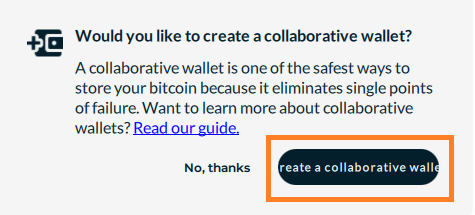
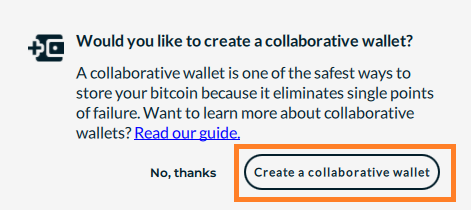
Adding fixes from PR comments

diff --git a/content/getting-started/multiDeviceMultiSig/_index.en.md b/content/getting-started/multiDeviceMultiSig/_index.en.md
@@ -9,7 +9,7 @@ keywords: ["mac, macos, windows, linux, ios, android"]
 ---
 
 {{< notice note >}}
-This tutorial is for someone that would like to their transactions to be signed from multiple devices. In this workflow, we will be using a desktop, laptop, and a mobile phone to create a 2 of 3 wallet. You can also use this workflow as a template to easily create a another version of a multisig wallet.
+This tutorial is for someone that would like their transactions to be signed from multiple devices. In this workflow, we will be using a desktop, laptop, and a mobile phone to create a 2 of 3 wallet. You can also use this workflow as a template to easily create a another version of a multisig wallet.
 {{< /notice >}}
 
 {{< notice info >}}
@@ -39,7 +39,7 @@ You will need to import or create a key for each of the devices you wish to use 
     alt = "Wallet + button (Screenshot)"/>
 
 4. Click the "Create a collaborative wallet" button to initiate the multisig configuration setup.<br/>
-<!-- Will need to update this image with new screenshot after fix -->
+
 <img src = desktopCreateCollabWalletBttn.png
     alt = "collaborative wallet question (Screenshot)"/>
 
@@ -74,29 +74,25 @@ The key in green (Software) is an eligible key to sign with for your current dev
 
 
 
-<!-- {{< notice note >}}
+{{< notice note >}}
 You may be required to add the keys on the device they were imported locally to. If that is the case, proceed to step 10.
-{{< /notice >}} -->
+{{< /notice >}}
 
-<!-- <img src = desktopErrorAddingKeys.png
+<img src = desktopErrorAddingKeys.png
     alt = "adding key error (Screenshot)"> -->
 
-<!-- 10. Ensure your local key is selected (for me, that is my Desktop Key) and click "Continue".<br/><br/>
+10. Ensure your local key is selected (for me, that is my Desktop Key) and click "Continue".<br/><br/>
 
 <img src = desktopSelectKey.png
-    alt = "Assign Key Desktop (Screenshot)"> -->
+    alt = "Assign Key Desktop (Screenshot)">
 
-11. You should now see the original chat screen you created in step 2. This is where you can find the pending wallet configuration.<br/><br/>
-
-{{< notice tip >}}
-You will need to access this chat screen and configuration file to if you did not complete your setup.
-{{< /notice>}}
+11. You should now see the original chat screen you created in step 2. This is where you can find the pending wallet configuration when you begin adding your keys on the next device.<br/><br/>
 
 <img src = desktopConfigDone.png
     alt = "Chat screen pending keys (Screenshot)">
 
 {{< notice note >}}
-You do not need to continue to the other tabs if you were able to add all the keys to your wallet. If you want to add a key created from another device, continue to the next tab.
+You do not need to continue to the other tabs if you were able to add all the keys to your wallet (number 9). If you want to add a key created from another device, continue to the next tab.
 {{< /notice >}}
 
 {{< /tab >}}
@@ -186,3 +182,6 @@ It is highly recommended to back up your wallet (noted in red, above). There are
 
 {{< /tab >}}
 {{</ tabs >}}
+
+
+Typically for collaborative wallets, the rule is that the creator of the wallet has to be the one to finalize it. However, for self-managed multisig, the wallet can be finalized from any device (since it's the same user). Once you have added all the required keys to your wallet, you will see a "Finalize wallet" button in the chat screen. You can click that on any device and finalize the wallet! Be sure to look for the backup option in the chat screen and <u>make a backup!</u>
